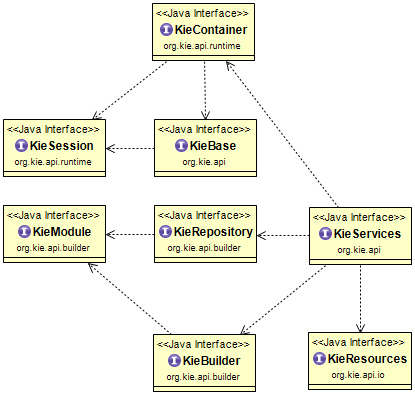
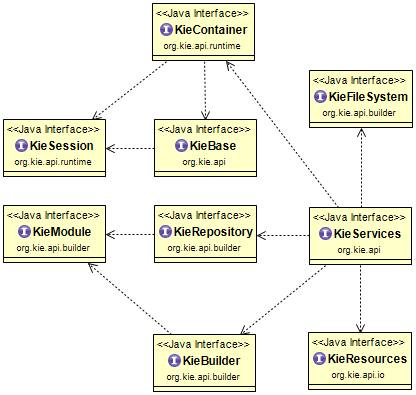
Updated Concepts.md.

diff --git a/src/main/java/learn/drools/model/TestDrools.java b/src/main/java/learn/drools/model/TestDrools.java
@@ -29,5 +29,6 @@ public class TestDrools {
 //		kfs.writeKModuleXML(kieModuleModel.toXML());
 		kfs.write("src/main/resources/learn/drools/kmodule1.xml", kieModuleModel.toXML());
 		System.out.println(kieModuleModel.toXML());
+		System.out.println(kieServices.getRepository().getDefaultReleaseId());
 	}
 }

diff --git a/doc/Concepts.md b/doc/Concepts.md
@@ -37,3 +37,7 @@ A `KieModule` is a container of all the resources necessary to define a set of `
 ### KieBuilder
 
 `KieBuilder` is a builder for the resources contained in a `KieModule`.
+
+### KieFileSystem
+
+`KieFileSystem` is an in memory file system used to programmatically define the resources composing a `KieModule`.
